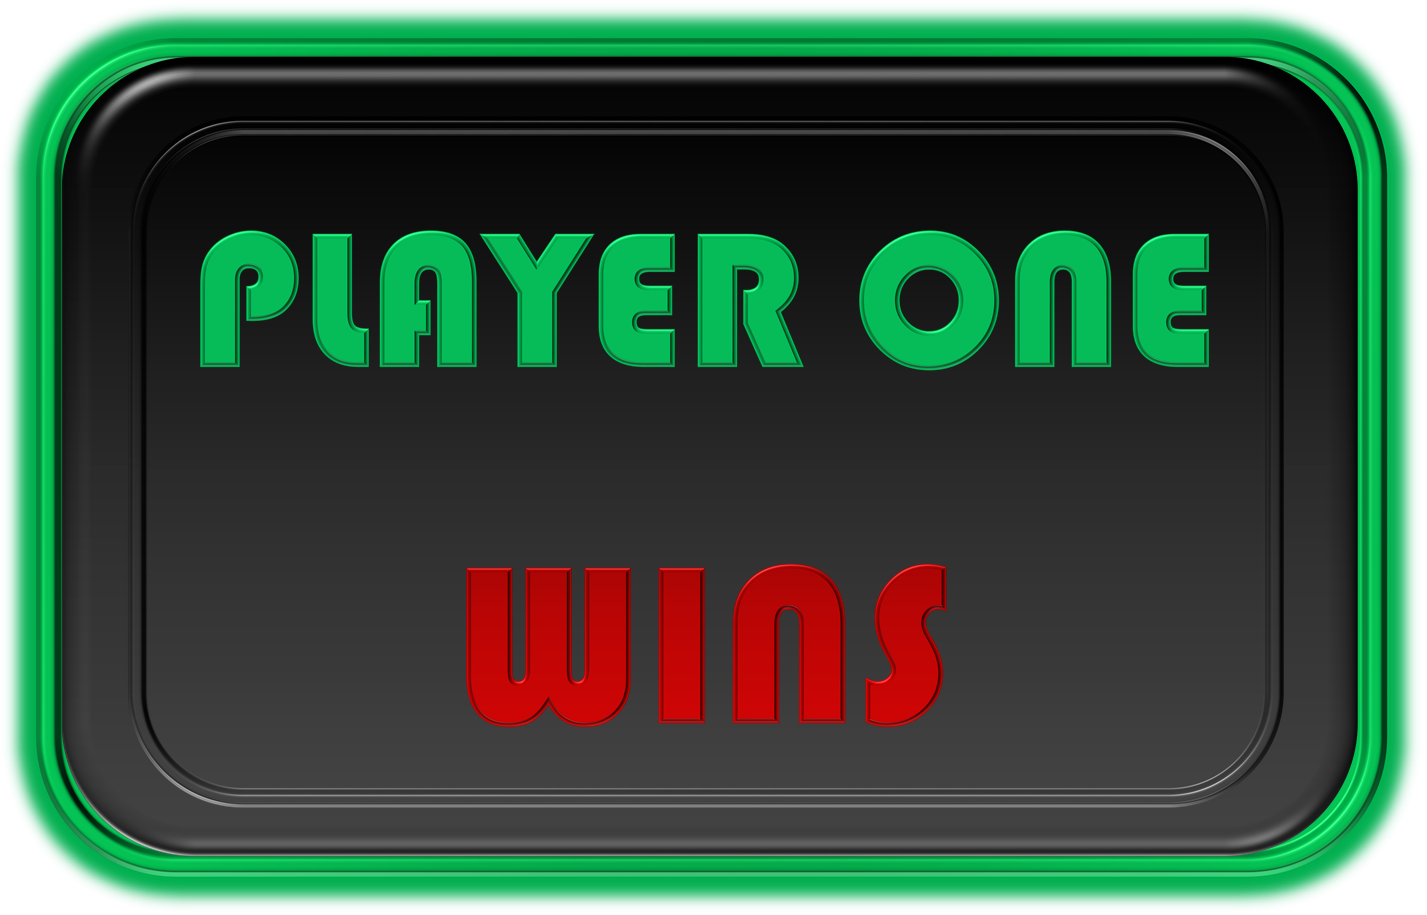
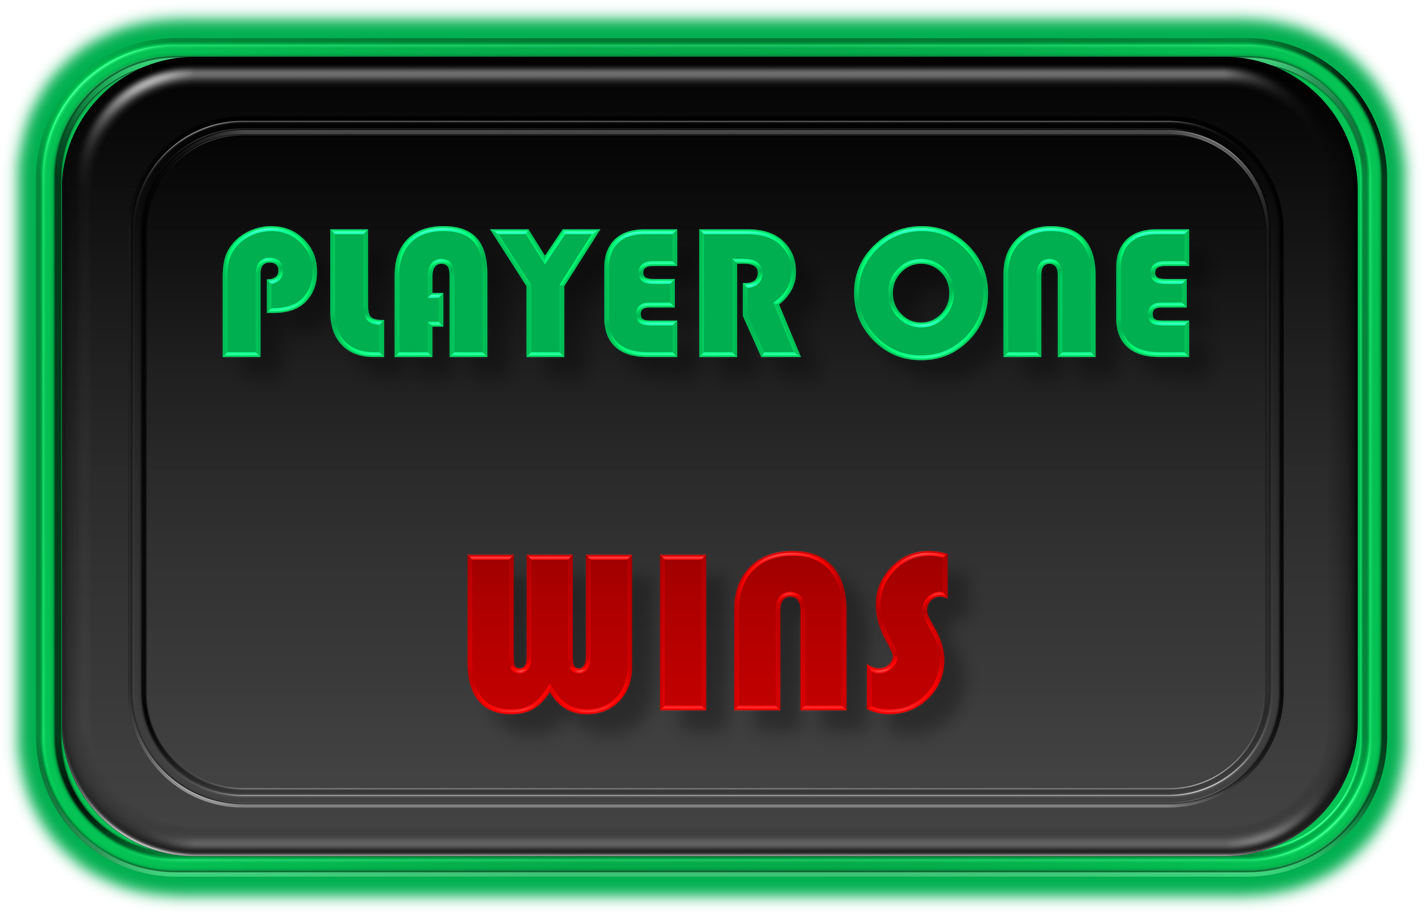
Update

Changed region(s): [[0.3083, 0.5814, 0.6783, 0.7956], [0.1233, 0.2448, 0.5858, 0.3978], [0.5858, 0.2448, 0.8633, 0.4284]]

diff --git a/Personal JavaFX Snake/src/com/EudyContreras/Snake/HUDElements/VictoryScreen.java b/Personal JavaFX Snake/src/com/EudyContreras/Snake/HUDElements/VictoryScreen.java
@@ -31,7 +31,9 @@ public class VictoryScreen extends AbstractHudElement{
 	private ImageView restart_btt;
 	private ImageView optionsBoard;
 	private Pane scoreLayer;
-	private Image boardImage;
+	private Image baseBoardImage;
+	private Image scoreBoardImage;
+	private Image winnerBoardImage;
 	private int counter = 0;
 	private int waitTime = 0;
 	private int currentChoice = 1;
@@ -66,7 +68,7 @@ public class VictoryScreen extends AbstractHudElement{
 		this.game = game;
 		this.overlay = game.getOverlayEffect();
 		this.scoreLayer = new Pane();
-		this.boardImage = boardImage;
+		this.baseBoardImage = boardImage;
 		this.width = width;
 		this.height = height;
 		this.borderGlow = new DropShadow();
@@ -91,13 +93,13 @@ public class VictoryScreen extends AbstractHudElement{
 		confirmScreen = new ImageView();
 		confirmScreen.setFitWidth(width);
 		confirmScreen.setFitHeight(height);
-		confirmScreen.setImage(boardImage);
+		confirmScreen.setImage(baseBoardImage);
 		if (allowGlow)
 			confirmScreen.setEffect(boardPulse);
 		scoreLayer.setPrefSize(GameSettings.WIDTH, GameSettings.HEIGHT);
 		confirmX = 0 - width- 50;
 		confirmScreen.setY(GameSettings.HEIGHT / 2 - confirmScreen.getFitHeight() / 2 - GameManager.ScaleY(30));
-		confirmScreenBack = new ImageView(GameImageBank.player_score_trans_board);
+		confirmScreenBack = new ImageView();
 		continue_btt = new ImageView(GameImageBank.continue_button);
 		quitGame_btt = new ImageView(GameImageBank.quit_button);
 		restart_btt = new ImageView(GameImageBank.restart_button);
@@ -124,13 +126,19 @@ public class VictoryScreen extends AbstractHudElement{
 		PlayerTwo.LEVEL_COMPLETED = true;
 		PlayerOne.LEVEL_COMPLETED = true;
 		if(game.getGameLoader().getPlayerOne().getAppleCount()>game.getGameLoader().getPlayerTwo().getAppleCount()){
-			this.boardImage = GameImageBank.player_one_wins;
+			this.winnerBoardImage = GameImageBank.player_one_wins;
+			this.baseBoardImage = GameImageBank.player_score_trans_board;
+			this.scoreBoardImage = GameImageBank.player_score_board;
 		}
 		else if(game.getGameLoader().getPlayerOne().getAppleCount()<game.getGameLoader().getPlayerTwo().getAppleCount()){
-			this.boardImage = GameImageBank.player_two_wins;
+			this.winnerBoardImage = GameImageBank.player_two_wins;
+			this.baseBoardImage = GameImageBank.player_score_trans_board;
+			this.scoreBoardImage = GameImageBank.player_score_board;
 		}
 		else if(game.getGameLoader().getPlayerOne().getAppleCount()==game.getGameLoader().getPlayerTwo().getAppleCount()){
-			this.boardImage = GameImageBank.draw_game;
+			this.winnerBoardImage = GameImageBank.draw_game;
+			this.baseBoardImage = GameImageBank.game_draw_trans_board;
+			this.scoreBoardImage = GameImageBank.game_draw_score_board;
 		}
 		askConfirm();
 
@@ -388,7 +396,7 @@ public class VictoryScreen extends AbstractHudElement{
 				showTransition = true;
 			}
 			if(showTransition == true){
-				confirmScreen.setImage(GameImageBank.player_score_board);
+				confirmScreen.setImage(scoreBoardImage);
 				scoreScreen.setScoreOpacity(transitionOpacity);
 				transitionOpacity+= opacityValue;
 				if(transitionOpacity>=1 && opacityValue>0){
@@ -415,7 +423,7 @@ public class VictoryScreen extends AbstractHudElement{
 				showTransition = true;
 			}
 			if(showTransition == true){
-				confirmScreen.setImage(boardImage);
+				confirmScreen.setImage(winnerBoardImage);
 				transitionOpacity+= opacityValue;
 				if(transitionOpacity>=1 && opacityValue>0){
 					transitionOpacity = 1;
@@ -529,7 +537,8 @@ public class VictoryScreen extends AbstractHudElement{
 	private void askConfirm() {
 		confirmScreenBack.setOpacity(0);
 		game.setStateID(GameStateID.LEVEL_COMPLETED);
-		confirmScreen.setImage(GameImageBank.player_score_trans_board);
+		confirmScreenBack.setImage(baseBoardImage);
+		confirmScreen.setImage(baseBoardImage);
 		confirmX = 0 - width - 50;
 		confirmScreen.setX(-1000);
 		confirmScreen.setY(-1000);

diff --git a/Personal JavaFX Snake/src/com/EudyContreras/Snake/ImageBanks/GameImageBank.java b/Personal JavaFX Snake/src/com/EudyContreras/Snake/ImageBanks/GameImageBank.java
@@ -64,6 +64,8 @@ public class GameImageBank {
 	public static Image player_score_board;
 	public static Image game_over_score_board;
 	public static Image game_over_trans_board;
+	public static Image game_draw_trans_board;
+	public static Image game_draw_score_board;
 	public static Image hud_timer;
 	public static Image splash_screen;
 	public static Image player_one_hud;
@@ -211,6 +213,8 @@ public class GameImageBank {
 		player_two_loses = new Image(ImageEffectUtility.loadResource("player_two_lost.png"));
 		player_score_trans_board = new Image(ImageEffectUtility.loadResource("player_score_transition_board.png"));
 		player_score_board = new Image(ImageEffectUtility.loadResource("player_score_board.png"));
+		game_draw_trans_board = new Image(ImageEffectUtility.loadResource("game_draw_transition_board.png"));
+		game_draw_score_board = new Image(ImageEffectUtility.loadResource("game_draw_score_board.png"));
 		game_over_trans_board = new Image(ImageEffectUtility.loadResource("game_over_transition_board.png"));
 		game_over_score_board = new Image(ImageEffectUtility.loadResource("game_over_score_board.png"));
 		options_board = new Image(ImageEffectUtility.loadResource("options_board.png"));

diff --git a/Personal JavaFX Snake/src/com/EudyContreras/Snake/FrameWork/GameSettings.java b/Personal JavaFX Snake/src/com/EudyContreras/Snake/FrameWork/GameSettings.java
@@ -63,7 +63,7 @@ public class GameSettings {
 	public static int MAX_AMOUNT_OF_DEBRIS = 150;
 	public static int MAX_AMOUNT_OF_BACKGROUND_OBJECT = 10;
 	public static int PARTICLE_LIMIT = 120;
-	public static int MAX_DEBRIS_AMOUNT = 100;
+	public static int MAX_DEBRIS_AMOUNT = 20;
 	public static int SAND_SPAWN_DELAY = 1;
 	public static int RAIN_SPAWN_DELAY = 1;
 	public static int SAND_AMOUNT = 2;
